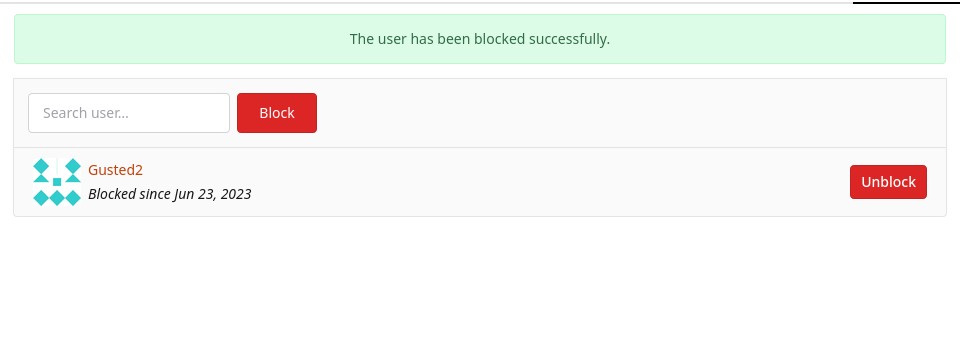
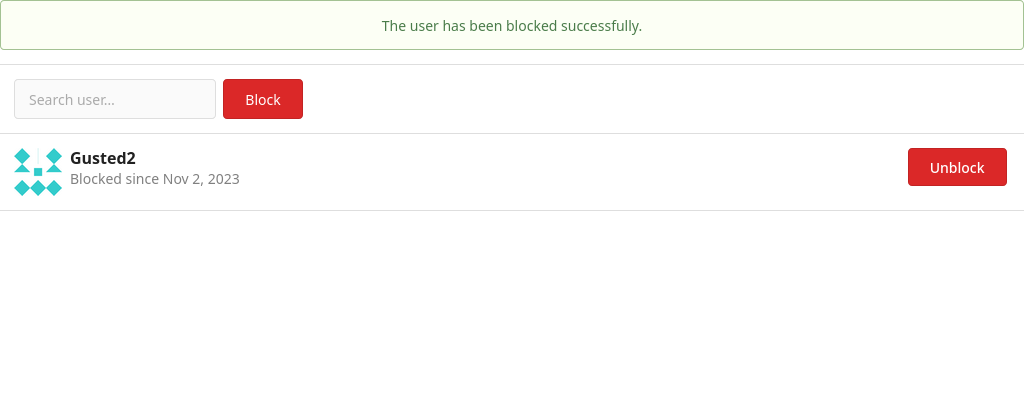
Refactor blocking users page
- Update images to the 'new' design and have better consistency with
sizes (using Firefox's screenshot node feature).
- Add section for blocking users as a user of where to find the list of
blocked users and how to unblock them.

diff --git a/docs/user/blocking-user.md b/docs/user/blocking-user.md
@@ -15,13 +15,27 @@ A popup will show; please read carefully what blocking another user implies, and
 
 ![Popup where implications of the block action is listed](../_images/user/block/popup.png)
 
+### List of blocked users and unblocking
+
+If you would like to see the list of users you've blocked, navigate to your user profile in the top-right corner and click on the settings item.
+
+![Dropdown that shows up after clicking on the profile in the navigation bar](../_images/user/block/profile_dropdown.png)
+
+Select the Blocked Users item in the menu. This navigates you to the page where the users you've blocked are listed.
+
+![Blocked Users page being selected in the settings menu](../_images/user/block/user_settings.png)
+
+To unblock someone, click on the unblock button next to their name.
+
+![List of people that are currently blocked by the user](../_images/user/block/user_list_blocks.png)
+
 ## How to block someone as an organization
 
 It is possible to block a user from an organization, this has the same implications as a normal user blocking another user. To block a user from an organization, you must be on that organization's Owners team.
 
 Navigate to your organization's settings and select the Blocked Users page.
 
-![Blocked Users page being selected in the table](../_images/user/block/org_page.png)
+![Blocked Users page being selected in the settings menu](../_images/user/block/org_page.png)
 
 Find the person you want to block in the search bar, select the user and click block.
 
